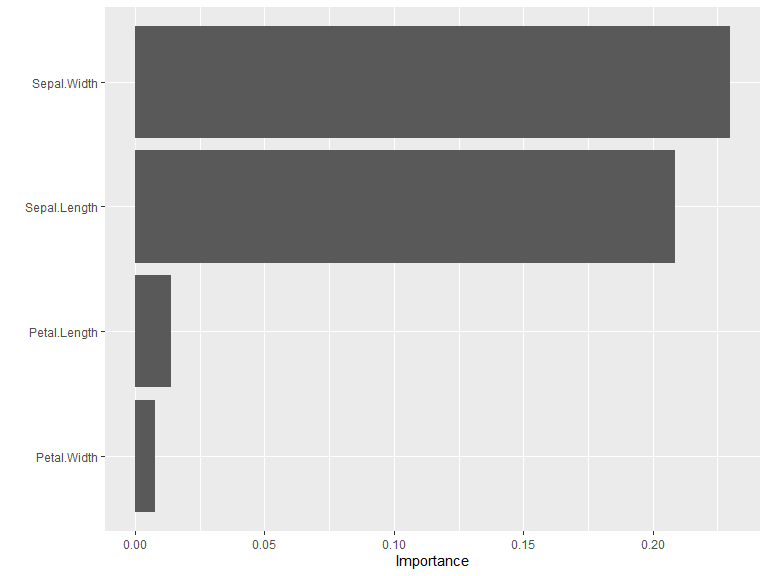
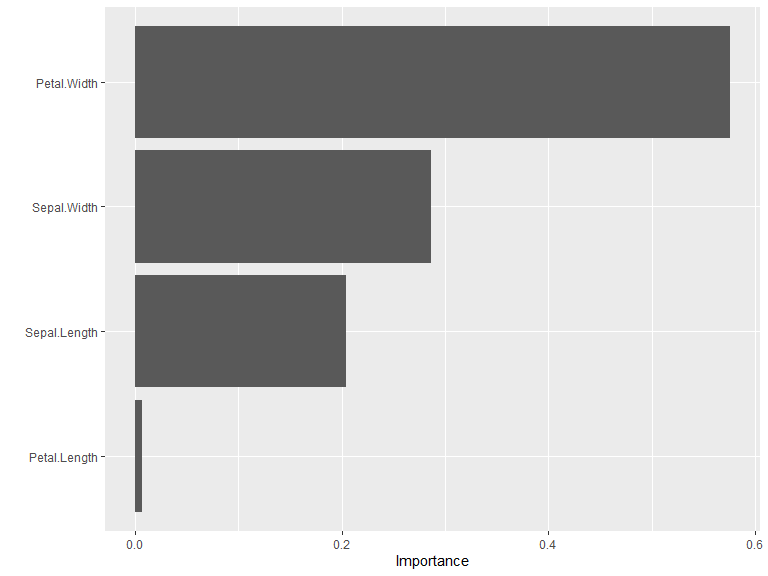
For CRAN initial submission (on process)

diff --git a/.github/CONTRIBUTING.md b/.github/CONTRIBUTING.md
@@ -1,0 +1,47 @@
+# Contributing to kindling
+
+This outlines how to propose a change to kindling.
+For a detailed discussion on contributing to this and other tidyverse packages, please see the [development contributing guide](https://rstd.io/tidy-contrib) and our [code review principles](https://code-review.tidyverse.org/).
+
+## Fixing typos
+
+You can fix typos, spelling mistakes, or grammatical errors in the documentation directly using the GitHub web interface, as long as the changes are made in the _source_ file. 
+This generally means you'll need to edit [roxygen2 comments](https://roxygen2.r-lib.org/articles/roxygen2.html) in an `.R`, not a `.Rd` file. 
+You can find the `.R` file that generates the `.Rd` by reading the comment in the first line.
+
+## Bigger changes
+
+If you want to make a bigger change, it's a good idea to first file an issue and make sure someone from the team agrees that it’s needed. 
+If you’ve found a bug, please file an issue that illustrates the bug with a minimal 
+[reprex](https://www.tidyverse.org/help/#reprex) (this will also help you write a unit test, if needed).
+See our guide on [how to create a great issue](https://code-review.tidyverse.org/issues/) for more advice.
+
+### Pull request process
+
+*   Fork the package and clone onto your computer. If you haven't done this before, we recommend using `usethis::create_from_github("joshuamarie/kindling", fork = TRUE)`.
+
+*   Install all development dependencies with `devtools::install_dev_deps()`, and then make sure the package passes R CMD check by running `devtools::check()`. 
+    If R CMD check doesn't pass cleanly, it's a good idea to ask for help before continuing. 
+*   Create a Git branch for your pull request (PR). We recommend using `usethis::pr_init("brief-description-of-change")`.
+
+*   Make your changes, commit to git, and then create a PR by running `usethis::pr_push()`, and following the prompts in your browser.
+    The title of your PR should briefly describe the change.
+    The body of your PR should contain `Fixes #issue-number`.
+
+*  For user-facing changes, add a bullet to the top of `NEWS.md` (i.e. just below the first header). Follow the style described in <https://style.tidyverse.org/news.html>.
+
+### Code style
+
+*   New code should follow the tidyverse [style guide](https://style.tidyverse.org). 
+    You can use [Air](https://posit-dev.github.io/air/) to apply this style, but please don't restyle code that has nothing to do with your PR.  
+
+*  We use [roxygen2](https://cran.r-project.org/package=roxygen2), with [Markdown syntax](https://cran.r-project.org/web/packages/roxygen2/vignettes/rd-formatting.html), for documentation.  
+
+*  We use [testthat](https://cran.r-project.org/package=testthat) for unit tests. 
+   Contributions with test cases included are easier to accept.  
+
+## Code of Conduct
+
+Please note that the kindling project is released with a
+[Contributor Code of Conduct](CODE_OF_CONDUCT.md). By contributing to this
+project you agree to abide by its terms.

diff --git a/README.md b/README.md
@@ -5,6 +5,8 @@
 
 <!-- badges: start -->
 
+[![CRAN
+status](https://www.r-pkg.org/badges/version/kindling)](https://CRAN.R-project.org/package=kindling)
 [![R-CMD-check](https://github.com/joshuamarie/kindling/actions/workflows/R-CMD-check.yaml/badge.svg)](https://github.com/joshuamarie/kindling/actions/workflows/R-CMD-check.yaml)
 <!-- badges: end -->
 
@@ -172,7 +174,7 @@ The `predict()` method offers flexible prediction behavior through its
     #> actual       setosa versicolor virginica
     #>   setosa         50          0         0
     #>   versicolor      0         47         3
-    #>   virginica       0          0        50
+    #>   virginica       0          1        49
     ```
 
 2.  **With new data** — simply pass a data frame:
@@ -186,7 +188,7 @@ The `predict()` method offers flexible prediction behavior through its
     #> actual       setosa versicolor virginica
     #>   setosa         10          0         0
     #>   versicolor      0          9         1
-    #>   virginica       0          0        10
+    #>   virginica       0          1         9
     ```
 
 ### Level 3: Full tidymodels Integration
@@ -339,10 +341,10 @@ networks. Two primary algorithms are available:
     ``` r
     garson(model, bar_plot = FALSE)
     #>        x_names y_names  rel_imp
-    #> 1 Petal.Length Species 28.88009
-    #> 2  Petal.Width Species 26.88130
-    #> 3  Sepal.Width Species 23.57173
-    #> 4 Sepal.Length Species 20.66689
+    #> 1  Petal.Width Species 30.38174
+    #> 2 Petal.Length Species 25.83497
+    #> 3 Sepal.Length Species 22.78038
+    #> 4  Sepal.Width Species 21.00291
     ```
 
 2.  Olden’s Algorithm
@@ -350,10 +352,10 @@ networks. Two primary algorithms are available:
     ``` r
     olden(model, bar_plot = FALSE)
     #>        x_names y_names      rel_imp
-    #> 1  Sepal.Width Species  0.229987422
-    #> 2 Sepal.Length Species  0.208463802
-    #> 3 Petal.Length Species  0.014147852
-    #> 4  Petal.Width Species -0.007682353
+    #> 1  Petal.Width Species  0.575948477
+    #> 2  Sepal.Width Species -0.286548868
+    #> 3 Sepal.Length Species -0.204277142
+    #> 4 Petal.Length Species  0.006615014
     ```
 
 ### Integration with {vip}

diff --git a/NEWS.md b/NEWS.md
@@ -1,0 +1,3 @@
+# kindling 0.1.0
+
+* Initial CRAN submission.
